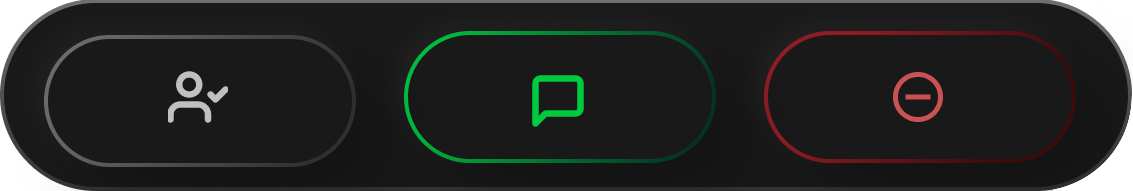
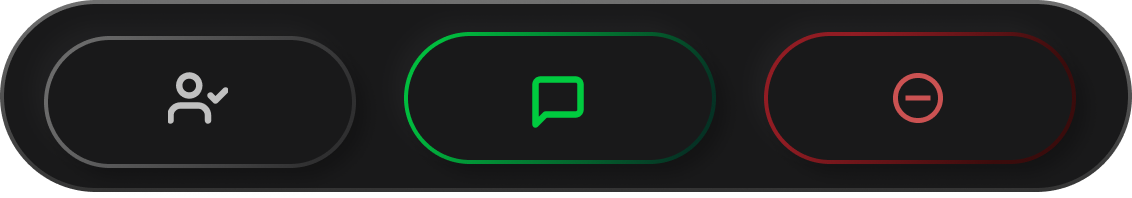
fixed link to website, updated images on website

diff --git a/frontend/src/services/api.ts b/frontend/src/services/api.ts
@@ -136,8 +136,15 @@ export const roomService = {
           console.log(`[getRooms] Conversation structure:`, { 
             hasConversation: !!c.conversation, 
             type: c.conversation?.type,
-            title: c.conversation?.title || c.conversation?.name 
+            title: c.conversation?.title || c.conversation?.name,
+            is_favorite: c.is_favorite
           });
+          // Copy participant-level fields to the conversation object
+          if (c.conversation) {
+            c.conversation.is_favorite = c.is_favorite;
+            c.conversation.has_notifications = c.has_notifications;
+            c.conversation.muted = c.muted;
+          }
           return c.conversation;
         })
         .filter((c: ChatRoom) => {
@@ -147,7 +154,7 @@ export const roomService = {
           }
           if (type === 'favorites') {
             console.log(`[getRooms] Checking favorite:`, { title: c.title || c.name, is_favorite: c.is_favorite });
-            return c.is_favorite;
+            return !!c.is_favorite;
           }
           if (type === 'private') {
             console.log(`[getRooms] Checking private:`, { title: c.title || c.name, type: c.type });
@@ -162,7 +169,15 @@ export const roomService = {
     // Get all user's conversations
     const response = await api.get<{ conversations: any[] }>('/conversations/my');
     console.log(`[getRooms] All conversations:`, response.data.conversations.length);
-    return response.data.conversations.map((c: any) => c.conversation);
+    return response.data.conversations.map((c: any) => {
+      // Copy participant-level fields to the conversation object
+      if (c.conversation) {
+        c.conversation.is_favorite = c.is_favorite;
+        c.conversation.has_notifications = c.has_notifications;
+        c.conversation.muted = c.muted;
+      }
+      return c.conversation;
+    });
   },
 
   async getRoom(roomId: string) {

diff --git a/frontend/src/components/profile/Settings.tsx b/frontend/src/components/profile/Settings.tsx
@@ -825,7 +825,7 @@ export const Settings: React.FC<SettingsProps> = ({ onBack }) => {
               alignItems: 'center',
             }}>
               <a
-                href="https://bunch.up.railway.app/privacy"
+                href="https://bunch-extension.vercel.app/privacy"
                 target="_blank"
                 rel="noopener noreferrer"
                 style={{
@@ -842,7 +842,7 @@ export const Settings: React.FC<SettingsProps> = ({ onBack }) => {
               </a>
               <span style={{ color: '#404040', fontSize: '11px' }}>•</span>
               <a
-                href="https://bunch.up.railway.app/terms"
+                href="https://bunch-extension.vercel.app/terms"
                 target="_blank"
                 rel="noopener noreferrer"
                 style={{

diff --git a/frontend/src/components/auth/WalletConnect.tsx b/frontend/src/components/auth/WalletConnect.tsx
@@ -108,7 +108,7 @@ export const WalletConnect = () => {
           justifyContent: 'center',
         }}>
           <a
-            href="https://bunch.up.railway.app/privacy"
+            href="https://bunch-extension.vercel.app/privacy"
             target="_blank"
             rel="noopener noreferrer"
             style={{
@@ -125,7 +125,7 @@ export const WalletConnect = () => {
           </a>
           <span style={{ color: '#444', fontSize: '10px' }}>•</span>
           <a
-            href="https://bunch.up.railway.app/terms"
+            href="https://bunch-extension.vercel.app/terms"
             target="_blank"
             rel="noopener noreferrer"
             style={{
